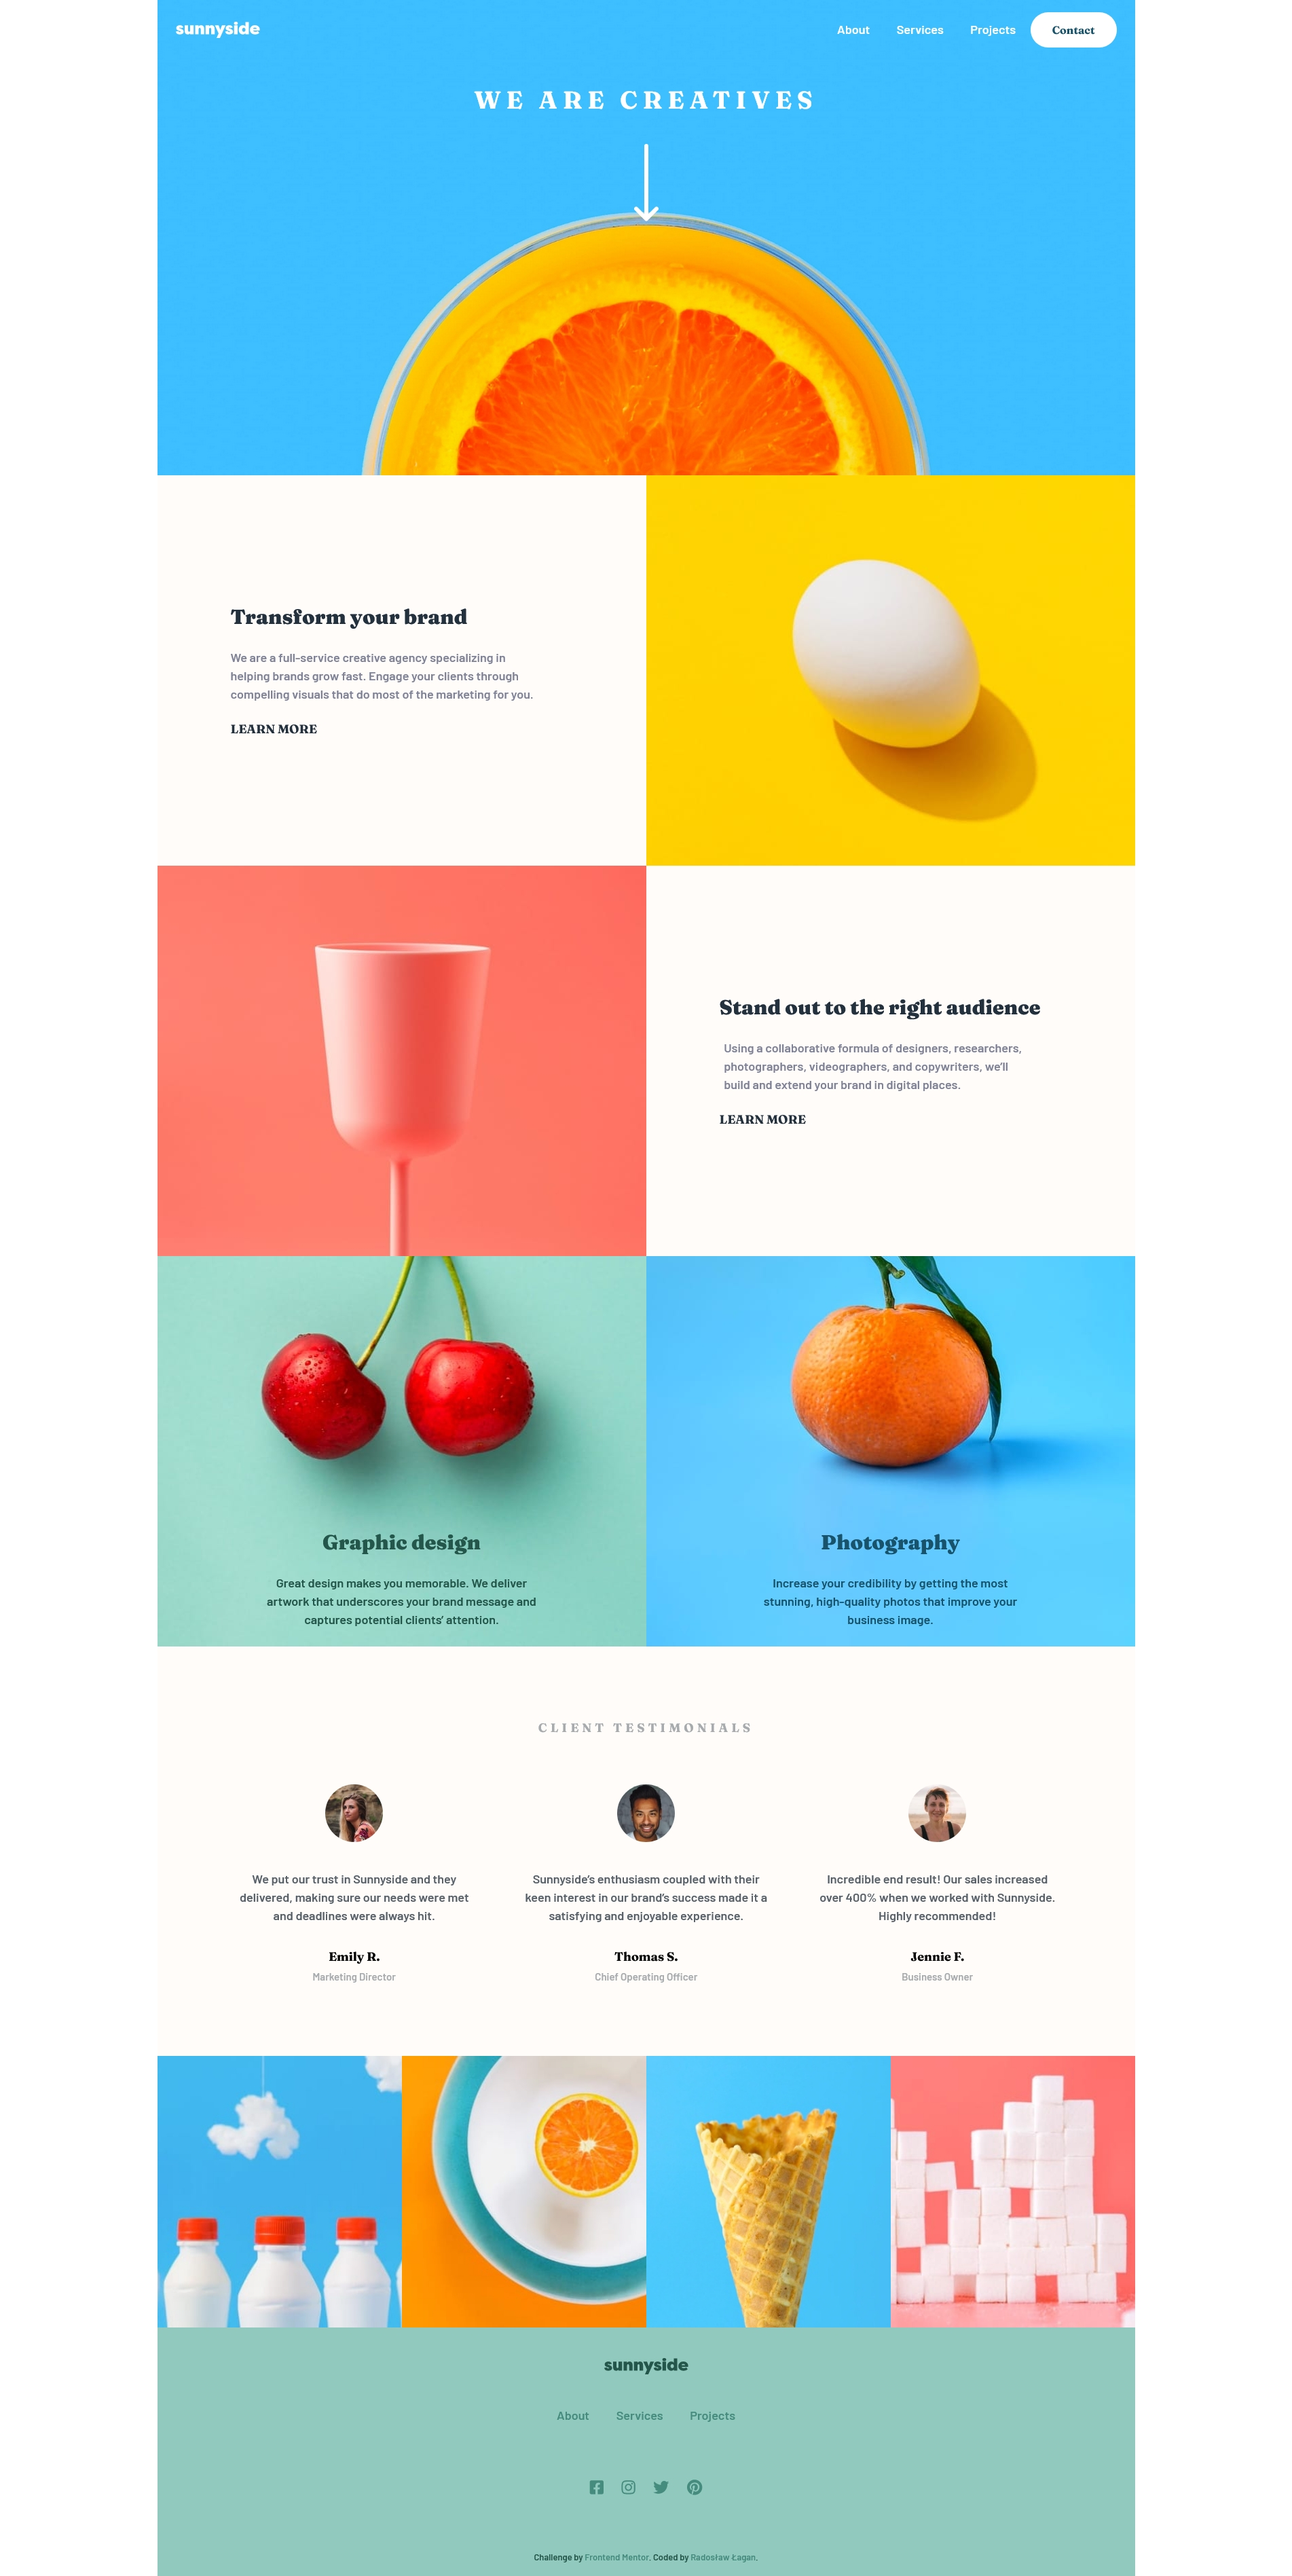
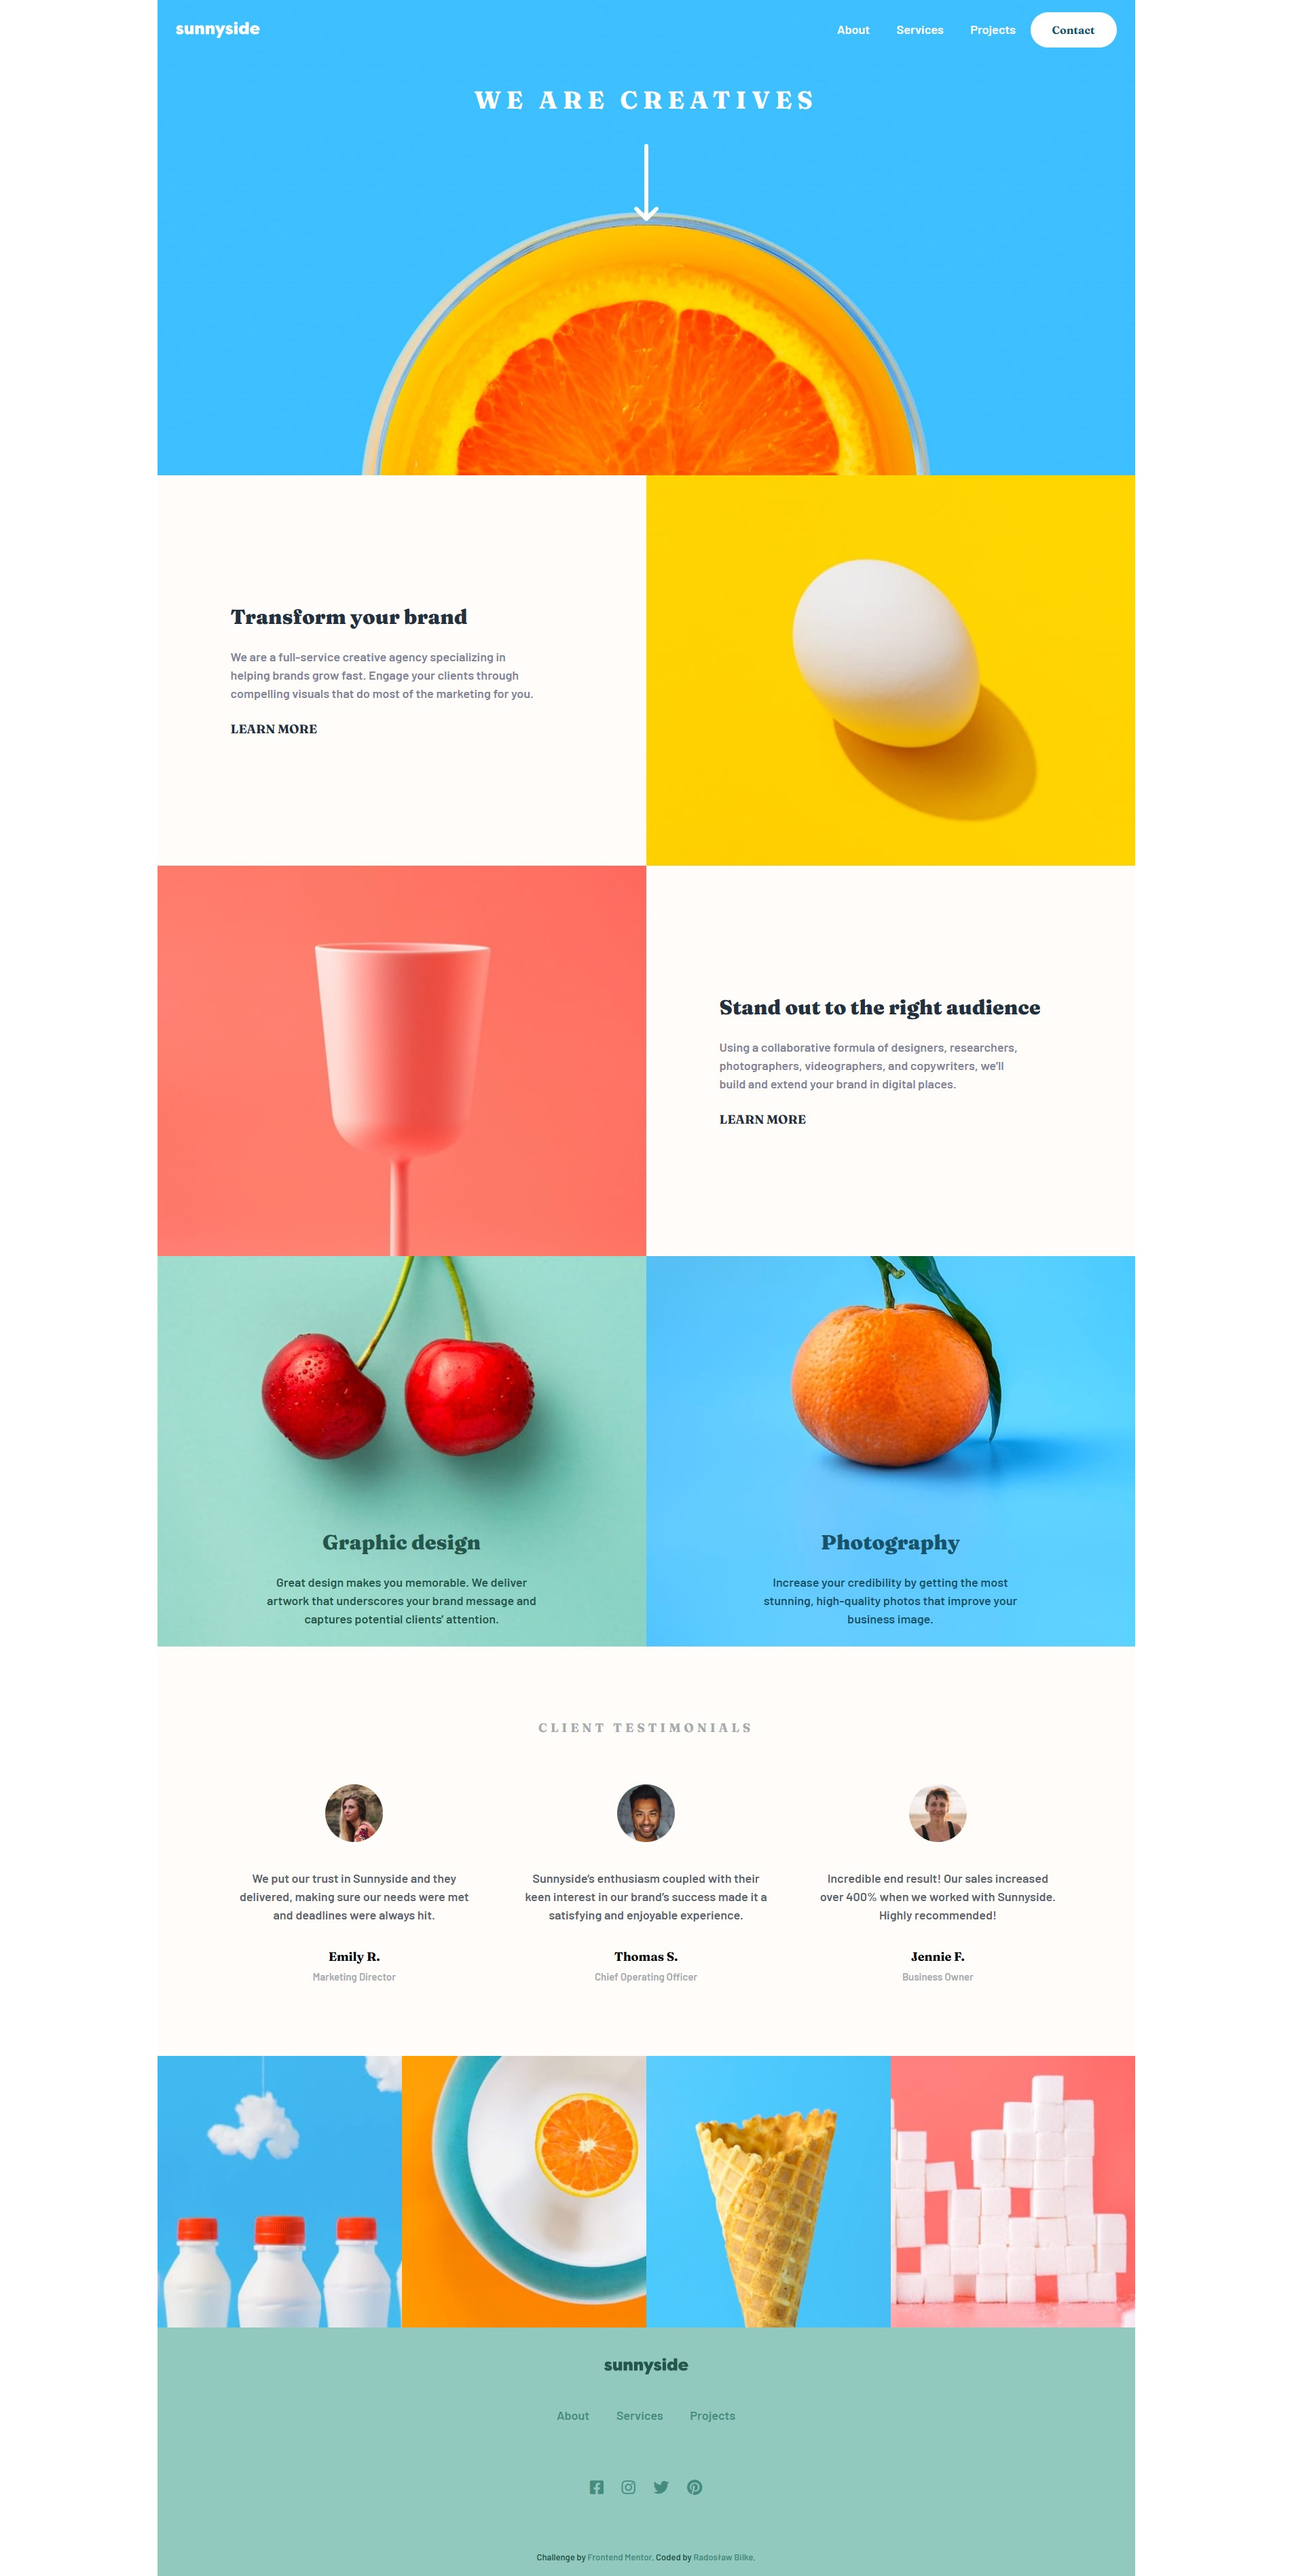
Update screenshot and replace Font Awesome kit

diff --git a/index.html b/index.html
@@ -8,7 +8,7 @@
   <link rel="preconnect" href="https://fonts.googleapis.com">
   <link rel="preconnect" href="https://fonts.gstatic.com" crossorigin>
   <link href="https://fonts.googleapis.com/css2?family=Barlow:wght@600&family=Fraunces:wght@700;900&display=swap" rel="stylesheet">
-  <script src="https://kit.fontawesome.com/b76dbff05e.js" crossorigin="anonymous"></script>
+  <link rel="stylesheet" href="https://cdnjs.cloudflare.com/ajax/libs/font-awesome/5.15.4/css/all.min.css" integrity="sha512-1ycn6IcaQQ40/MKBW2W4Rhis/DbILU74C1vSrLJxCq57o941Ym01SwNsOMqvEBFlcgUa6xLiPY/NS5R+E6ztJQ==" crossorigin="anonymous" referrerpolicy="no-referrer">
   <link rel="stylesheet" href="https://unpkg.com/aos@next/dist/aos.css" />
   <link rel="stylesheet" href="css/main.css">
 </head>
